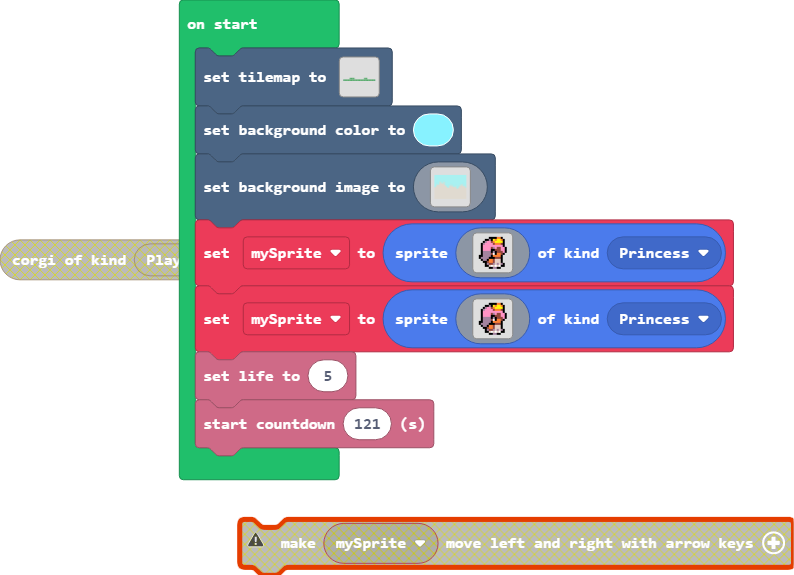
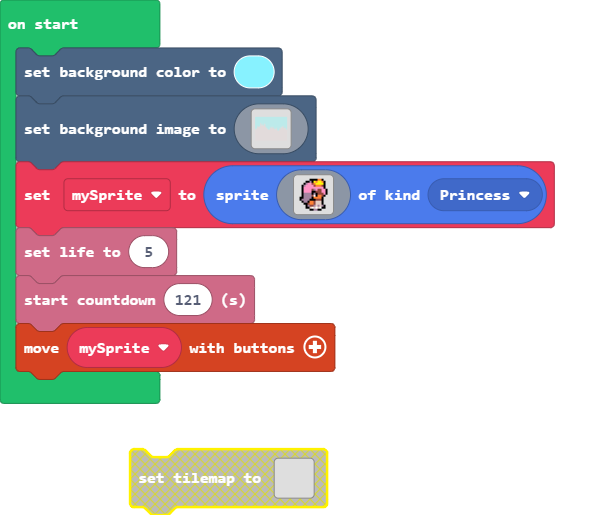
Update pxt.json, main.blocks, main.ts

diff --git a/main.ts b/main.ts
@@ -1,13 +1,6 @@
 namespace SpriteKind {
     export const Princess = SpriteKind.create()
 }
-tiles.setTilemap(tiles.createTilemap(hex`1400050000000000000000000000000000000000000000000000000000000000000000000000000000000000000000000000000000000000000000000000000000000000010101000000000000010100000000000201010101010101010101010101010101010103`, img`
-    . . . . . . . . . . . . . . . . . . . . 
-    . . . . . . . . . . . . . . . . . . . . 
-    . . . . . . . . . . . . . . . . . . . . 
-    . . . . 2 2 2 . . . . . . 2 2 . . . . . 
-    2 2 2 2 2 2 2 2 2 2 2 2 2 2 2 2 2 2 2 2 
-    `, [myTiles.transparency16,sprites.builtin.forestTiles2,sprites.builtin.forestTiles1,sprites.builtin.forestTiles3], TileScale.Sixteen))
 scene.setBackgroundColor(9)
 scene.setBackgroundImage(img`
     9999999999999999999999999999999999999999999999999999999999999999999999999999999999999999999999999999999999999999999999999999999999999999999999999999999999999999
@@ -149,23 +142,6 @@ let mySprite = sprites.create(img`
     . . . . f f d 1 d 1 d 1 f f . . 
     . . . . . . f f b b f f . . . . 
     `, SpriteKind.Princess)
-mySprite = sprites.create(img`
-    . . . . . . f f f f 4 4 f . . . 
-    . . . . f f b f 5 4 5 5 4 f . . 
-    . . . f b 3 3 e 4 5 5 5 5 f . . 
-    . . f b 3 3 3 3 e 4 4 4 e f . . 
-    . . f 3 3 3 3 3 3 3 3 3 3 f . . 
-    . . f 3 3 3 3 e b 3 e e 3 3 f . 
-    . . f 3 3 3 3 f f e e e 3 3 f . 
-    . . f b b b b f b f e e e 3 f . 
-    . . f b b b b e 1 f 4 4 e f . . 
-    . f f b b b b f 4 4 4 4 f . . . 
-    . f b b b b f f f e e e f . . . 
-    . . f b b f 4 4 e d d d f . . . 
-    . . . f f e 4 4 e d d d f . . . 
-    . . . . f b e e b d b d b f . . 
-    . . . . f f d 1 d 1 d 1 f f . . 
-    . . . . . . f f b b f f . . . . 
-    `, SpriteKind.Princess)
 info.setLife(5)
 info.startCountdown(121)
+controller.moveSprite(mySprite)
